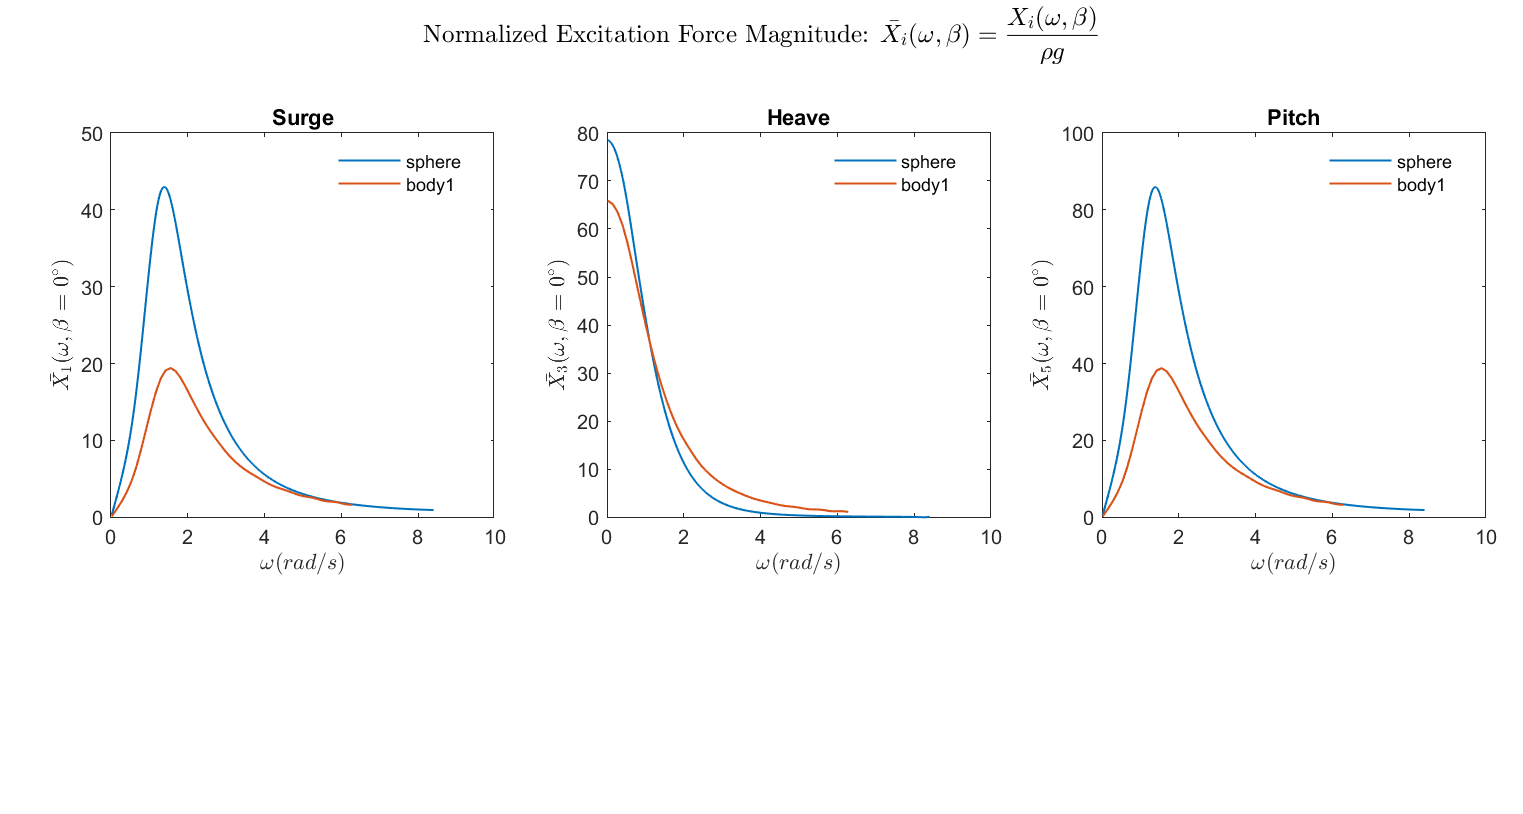
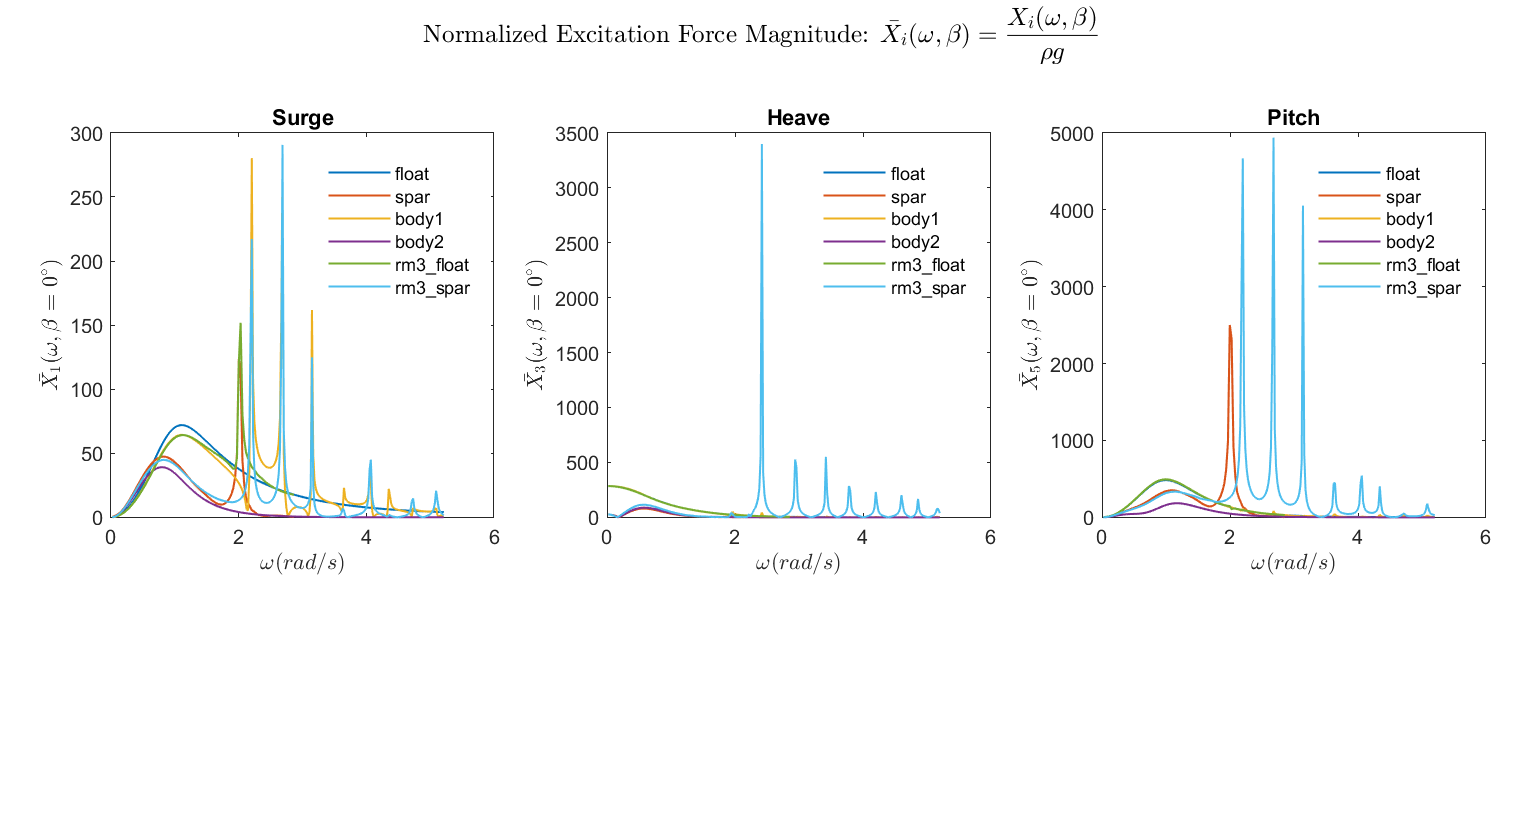
adding exc mag and phase

diff --git a/source/functions/BEMIO/plotRadiationIRF.m b/source/functions/BEMIO/plotRadiationIRF.m
@@ -14,20 +14,14 @@ function plotRadiationIRF(hydro,varargin)
     for i = 1:hydro.Nb
         m = hydro.dof(i);
         Y(1,n,:) = squeeze(hydro.ra_K(a+1,a+1,:));
-%         Legends{1,n} = [hydro.body{i}];
         Y(2,n,:) = squeeze(hydro.ra_K(a+3,a+3,:));
-%         Legends{2,n} = [hydro.body{i}];
         Y(3,n,:) = squeeze(hydro.ra_K(a+5,a+5,:));
-%         Legends{3,n} = [hydro.body{i}];
         Legends{i,1} = [hydro.body{i}];
         if isfield(hydro,'ss_A')==1
             n = n+1;
             Y(1,n,:) = squeeze(hydro.ss_K(a+1,a+1,:));
-%             Legends{1,n} = [hydro.body{i},' (SS)'];
             Y(2,n,:) = squeeze(hydro.ss_K(a+3,a+3,:));
-%             Legends{2,n} = [hydro.body{i},' (SS)'];
             Y(3,n,:) = squeeze(hydro.ss_K(a+5,a+5,:));
-%             Legends{3,n} = [hydro.body{i},' (SS)'];
             Legends{i,1} = [hydro.body{i},' (SS)'];        
         end
         n = n+1;
@@ -46,34 +40,24 @@ function plotRadiationIRF(hydro,varargin)
         FormatPlot(Fig3,Title,Subtitles,XLables,YLables,X,Y,Legends,Notes)
     end
         
-%     if length(varargin)==1
-%         try varargin{1}=varargin{1}{1}; end
     numHydro = length(varargin);
     if numHydro>=1
        for ii=1:numHydro
             numBod = varargin{ii}.Nb;
             tmp1 = strcat('X',num2str(ii));
             X1.(tmp1) = varargin{ii}.ra_t;
-    %             X1 = hydro.ra_t;
             tmp2 = strcat('Y',num2str(ii));
-    %         Nb = varargin{1}.Nb;
             a = 0;    
             for i = 1:numBod
                 m = varargin{ii}.dof(i);
                 Y1.(tmp2)(1,i,:) = squeeze(varargin{ii}.ra_K(a+1,a+1,:));
-    %             Legends{1,i+Nb} = [varargin{1}.body{i}];
                 Y1.(tmp2)(2,i,:) = squeeze(varargin{ii}.ra_K(a+3,a+3,:));
-    %             Legends{2,i+Nb} = [varargin{1}.body{i}];
                 Y1.(tmp2)(3,i,:) = squeeze(varargin{ii}.ra_K(a+5,a+5,:));
-    %             Legends{3,i+Nb} = [varargin{1}.body{i}];
                 Legends{i,1+ii} = [varargin{ii}.body{i}];                
                 if isfield(varargin{ii},'ss_A')==1
                     Y1.(tmp2)(1,i,:) = squeeze(varargin{ii}.ss_K(a+1,a+1,:));
-    %                 Legends{1,i+Nb} = [varargin{1}.body{i},' (SS)'];
                     Y1.(tmp2)(2,i,:) = squeeze(varargin{ii}.ss_K(a+3,a+3,:));
-    %                 Legends{2,i+Nb} = [varargin{1}.body{i},' (SS)'];
                     Y1.(tmp2)(3,i,:) = squeeze(varargin{ii}.ss_K(a+5,a+5,:));
-    %                 Legends{3,i+Nb} = [varargin{1}.body{i},' (SS)'];
                     Legends{i,1+11} = [hydro.body{i},' (SS)'];    
                 end
                 a = a + m;

diff --git a/examples/BEMIO/compareBEM.m b/examples/BEMIO/compareBEM.m
@@ -1,4 +1,5 @@
-clear all;clc; close all
+% clear all;
+clc; close all
 %% From hydro structure (before h5)
 
 %% Sphere (1 body)
@@ -24,7 +25,7 @@ clear all;clc; close all
 % CAP_hydro = Excitation_IRF(CAP_hydro,15,[],[],[],[]);
 
 % load('wamit_aqwa_sphere.mat')
-load('wamit_aqwa_cap_sphere.mat')
+% load('wamit_aqwa_cap_sphere.mat')
 
 %% RM3 (2 bodies)
 
@@ -65,38 +66,44 @@ load('wamit_aqwa_cap_rm3.mat')
 % AQWA_hydro = Radiation_IRF(AQWA_hydro,160,[],[],[],[]);
 % AQWA_hydro = Excitation_IRF(AQWA_hydro,160,[],[],[],[]);
 
-load('wamit_aqwa_wec3.mat')
+% load('wamit_aqwa_wec3.mat')
 
 %% Plot 
-plotAddedMass(WAMIT_hydro)
-plotAddedMass(AQWA_hydro)
-plotAddedMass(WAMIT_hydro,AQWA_hydro)
+% plotAddedMass(WAMIT_hydro)
+% plotAddedMass(AQWA_hydro)
+% plotAddedMass(WAMIT_hydro,AQWA_hydro)
 % plotAddedMass(CAP_hydro)
-% plotAddedMass(WAMIT_hydro,AQWA_hydro,CAP_hydro)
+plotAddedMass(WAMIT_hydro,AQWA_hydro,CAP_hydro)
 % 
-plotRadiationDamping(WAMIT_hydro)
-plotRadiationDamping(AQWA_hydro)
-plotRadiationDamping(WAMIT_hydro,AQWA_hydro)
-plotRadiationDamping(CAP_hydro)
+% plotRadiationDamping(WAMIT_hydro)
+% plotRadiationDamping(AQWA_hydro)
+% plotRadiationDamping(WAMIT_hydro,AQWA_hydro)
+% plotRadiationDamping(CAP_hydro)
 plotRadiationDamping(WAMIT_hydro,AQWA_hydro,CAP_hydro)
 % 
-plotRadiationIRF(WAMIT_hydro)
-plotRadiationIRF(AQWA_hydro)
-plotRadiationIRF(WAMIT_hydro,AQWA_hydro)
-plotRadiationIRF(CAP_hydro)
+% plotRadiationIRF(WAMIT_hydro)
+% plotRadiationIRF(AQWA_hydro)
+% plotRadiationIRF(WAMIT_hydro,AQWA_hydro)
+% plotRadiationIRF(CAP_hydro)
 plotRadiationIRF(WAMIT_hydro,AQWA_hydro,CAP_hydro)
 % 
 % plotExcitationMagnitude(WAMIT_hydro)
 % plotExcitationMagnitude(AQWA_hydro)
 % plotExcitationMagnitude(WAMIT_hydro,AQWA_hydro)
+plotExcitationMagnitude(CAP_hydro)
+plotExcitationMagnitude(WAMIT_hydro,AQWA_hydro,CAP_hydro)
 % 
 % plotExcitationPhase(WAMIT_hydro)
 % plotExcitationPhase(AQWA_hydro)
 % plotExcitationPhase(WAMIT_hydro,AQWA_hydro)
+plotExcitationPhase(CAP_hydro)
+plotExcitationPhase(WAMIT_hydro,AQWA_hydro,CAP_hydro)
 % 
 % plotExcitationIRF(WAMIT_hydro)
 % plotExcitationIRF(AQWA_hydro)
 % plotExcitationIRF(WAMIT_hydro,AQWA_hydro)
+plotExcitationIRF(CAP_hydro)
+plotExcitationIRF(WAMIT_hydro,AQWA_hydro,CAP_hydro)
 
 plotBEMIO(WAMIT_hydro,AQWA_hydro,CAP_hydro)
 

diff --git a/source/functions/BEMIO/plotExcitationPhase.m b/source/functions/BEMIO/plotExcitationPhase.m
@@ -15,11 +15,9 @@ function plotExcitationPhase(hydro,varargin)
     for i = 1:hydro.Nb
         m = hydro.dof(i);
         Y(1,i,:) = squeeze(hydro.ex_ph(a+1,B,:));
-        Legends{1,i} = [hydro.body{i}];
         Y(2,i,:) = squeeze(hydro.ex_ph(a+3,B,:));
-        Legends{2,i} = [hydro.body{i}];
         Y(3,i,:) = squeeze(hydro.ex_ph(a+5,B,:));
-        Legends{3,i} = [hydro.body{i}];
+        Legends{i,1} = [hydro.body{i}];        
         a = a + m;
     end
     
@@ -29,25 +27,27 @@ function plotExcitationPhase(hydro,varargin)
         FormatPlot(Fig5,Title,Subtitles,XLables,YLables,X,Y,Legends,Notes)
     end
 
-    if length(varargin)==1
-        try varargin{1}=varargin{1}{1}; end
-        X1 = varargin{1}.w;
-        Nb = varargin{1}.Nb;
-        a = 0;
-        for i = 1:Nb
-            m = varargin{1}.dof(i);
-            Y1(1,i,:) = squeeze(varargin{1}.ex_ph(a+1,B,:));
-            Legends{1,i+Nb} = [varargin{1}.body{i}];
-            Y1(2,i,:) = squeeze(varargin{1}.ex_ph(a+3,B,:));
-            Legends{2,i+Nb} = [varargin{1}.body{i}];
-            Y1(3,i,:) = squeeze(varargin{1}.ex_ph(a+5,B,:));
-            Legends{3,i+Nb} = [varargin{1}.body{i}];
-            a = a + m;
+    numHydro = length(varargin);
+    if numHydro>=1
+        for ii=1:numHydro
+            numBod = varargin{ii}.Nb;
+            tmp1 = strcat('X',num2str(ii));
+            X1.(tmp1) = varargin{ii}.w;
+            tmp2 = strcat('Y',num2str(ii));
+            a = 0;
+            for i = 1:numBod
+                m = varargin{ii}.dof(i);
+                Y1.(tmp2)(1,i,:) = squeeze(varargin{ii}.ex_ph(a+1,B,:));
+                Y1.(tmp2)(2,i,:) = squeeze(varargin{ii}.ex_ph(a+3,B,:));
+                Y1.(tmp2)(3,i,:) = squeeze(varargin{ii}.ex_ph(a+5,B,:));
+                Legends{i,1+ii} = [varargin{ii}.body{i}];
+                a = a + m;
+            end
         end
         FormatPlot(Fig5,Title,Subtitles,XLables,YLables,X,Y,Legends,Notes,X1,Y1)  
     end    
     
 %     waitbar(5/6);
-saveas(Fig5,'Excitation_Phase.png');
+    saveas(Fig5,'Excitation_Phase.png');
 
 end

diff --git a/source/functions/BEMIO/plotExcitationMagnitude.m b/source/functions/BEMIO/plotExcitationMagnitude.m
@@ -16,11 +16,9 @@ function plotExcitationMagnitude(hydro,varargin)
     for i = 1:hydro.Nb
         m = hydro.dof(i);
         Y(1,i,:) = squeeze(hydro.ex_ma(a+1,B,:));
-        Legends{1,i} = [hydro.body{i}];
         Y(2,i,:) = squeeze(hydro.ex_ma(a+3,B,:));
-        Legends{2,i} = [hydro.body{i}];
         Y(3,i,:) = squeeze(hydro.ex_ma(a+5,B,:));
-        Legends{3,i} = [hydro.body{i}];
+        Legends{i,1} = [hydro.body{i}];
         a = a + m;
     end
     
@@ -30,20 +28,22 @@ function plotExcitationMagnitude(hydro,varargin)
         FormatPlot(Fig4,Title,Subtitles,XLables,YLables,X,Y,Legends,Notes)
     end
     
-    if length(varargin)==1
-        try varargin{1}=varargin{1}{1}; end
-        X1 = varargin{1}.w;
-        Nb=varargin{1}.Nb;
-        a = 0;
-        for i = 1:Nb
-            m = varargin{1}.dof(i);
-            Y1(1,i,:) = squeeze(varargin{1}.ex_ma(a+1,B,:));
-            Legends{1,i+Nb} = [varargin{1}.body{i}];
-            Y1(2,i,:) = squeeze(varargin{1}.ex_ma(a+3,B,:));
-            Legends{2,i+Nb} = [varargin{1}.body{i}];
-            Y1(3,i,:) = squeeze(varargin{1}.ex_ma(a+5,B,:));
-            Legends{3,i+Nb} = [varargin{1}.body{i}];
-            a = a + m;
+    numHydro = length(varargin);
+    if numHydro>=1
+        for ii=1:numHydro
+            numBod = varargin{ii}.Nb;
+            tmp1 = strcat('X',num2str(ii));
+            X1.(tmp1) = varargin{ii}.w;
+            tmp2 = strcat('Y',num2str(ii));
+            a = 0;
+            for i = 1:numBod
+                m = varargin{ii}.dof(i);
+                Y1.(tmp2)(1,i,:) = squeeze(varargin{ii}.ex_ma(a+1,B,:));
+                Y1.(tmp2)(2,i,:) = squeeze(varargin{ii}.ex_ma(a+3,B,:));
+                Y1.(tmp2)(3,i,:) = squeeze(varargin{ii}.ex_ma(a+5,B,:));
+                Legends{i,1+ii} = [varargin{ii}.body{i}];
+                a = a + m;
+            end
         end
         FormatPlot(Fig4,Title,Subtitles,XLables,YLables,X,Y,Legends,Notes,X1,Y1)  
     end

diff --git a/source/functions/BEMIO/plotAddedMass.m b/source/functions/BEMIO/plotAddedMass.m
@@ -31,7 +31,7 @@ function plotAddedMass(hydro,varargin)
     
     numHydro = length(varargin);
     if numHydro>=1
-       for ii=1:numHydro
+        for ii=1:numHydro
             numBod = varargin{ii}.Nb;
             tmp1 = strcat('X',num2str(ii));
             X1.(tmp1) = varargin{ii}.w;
@@ -45,7 +45,7 @@ function plotAddedMass(hydro,varargin)
                 Legends{i,1+ii} = [varargin{ii}.body{i}];
                 a = a + m;
             end
-       end
+        end
         FormatPlot(Fig1,Title,Subtitles,XLables,YLables,X,Y,Legends,Notes,X1,Y1)    
     end
     

diff --git a/source/functions/BEMIO/plotRadiationDamping.m b/source/functions/BEMIO/plotRadiationDamping.m
@@ -14,7 +14,6 @@ function plotRadiationDamping(hydro,varargin)
         Y(1,i,:) = squeeze(hydro.B(a+1,a+1,:));
         Y(2,i,:) = squeeze(hydro.B(a+3,a+3,:));
         Y(3,i,:) = squeeze(hydro.B(a+5,a+5,:));
-%         Legends{3,i} = [hydro.body{i}];
         Legends{i,1} = [hydro.body{i}];
         a = a + m;
     end
